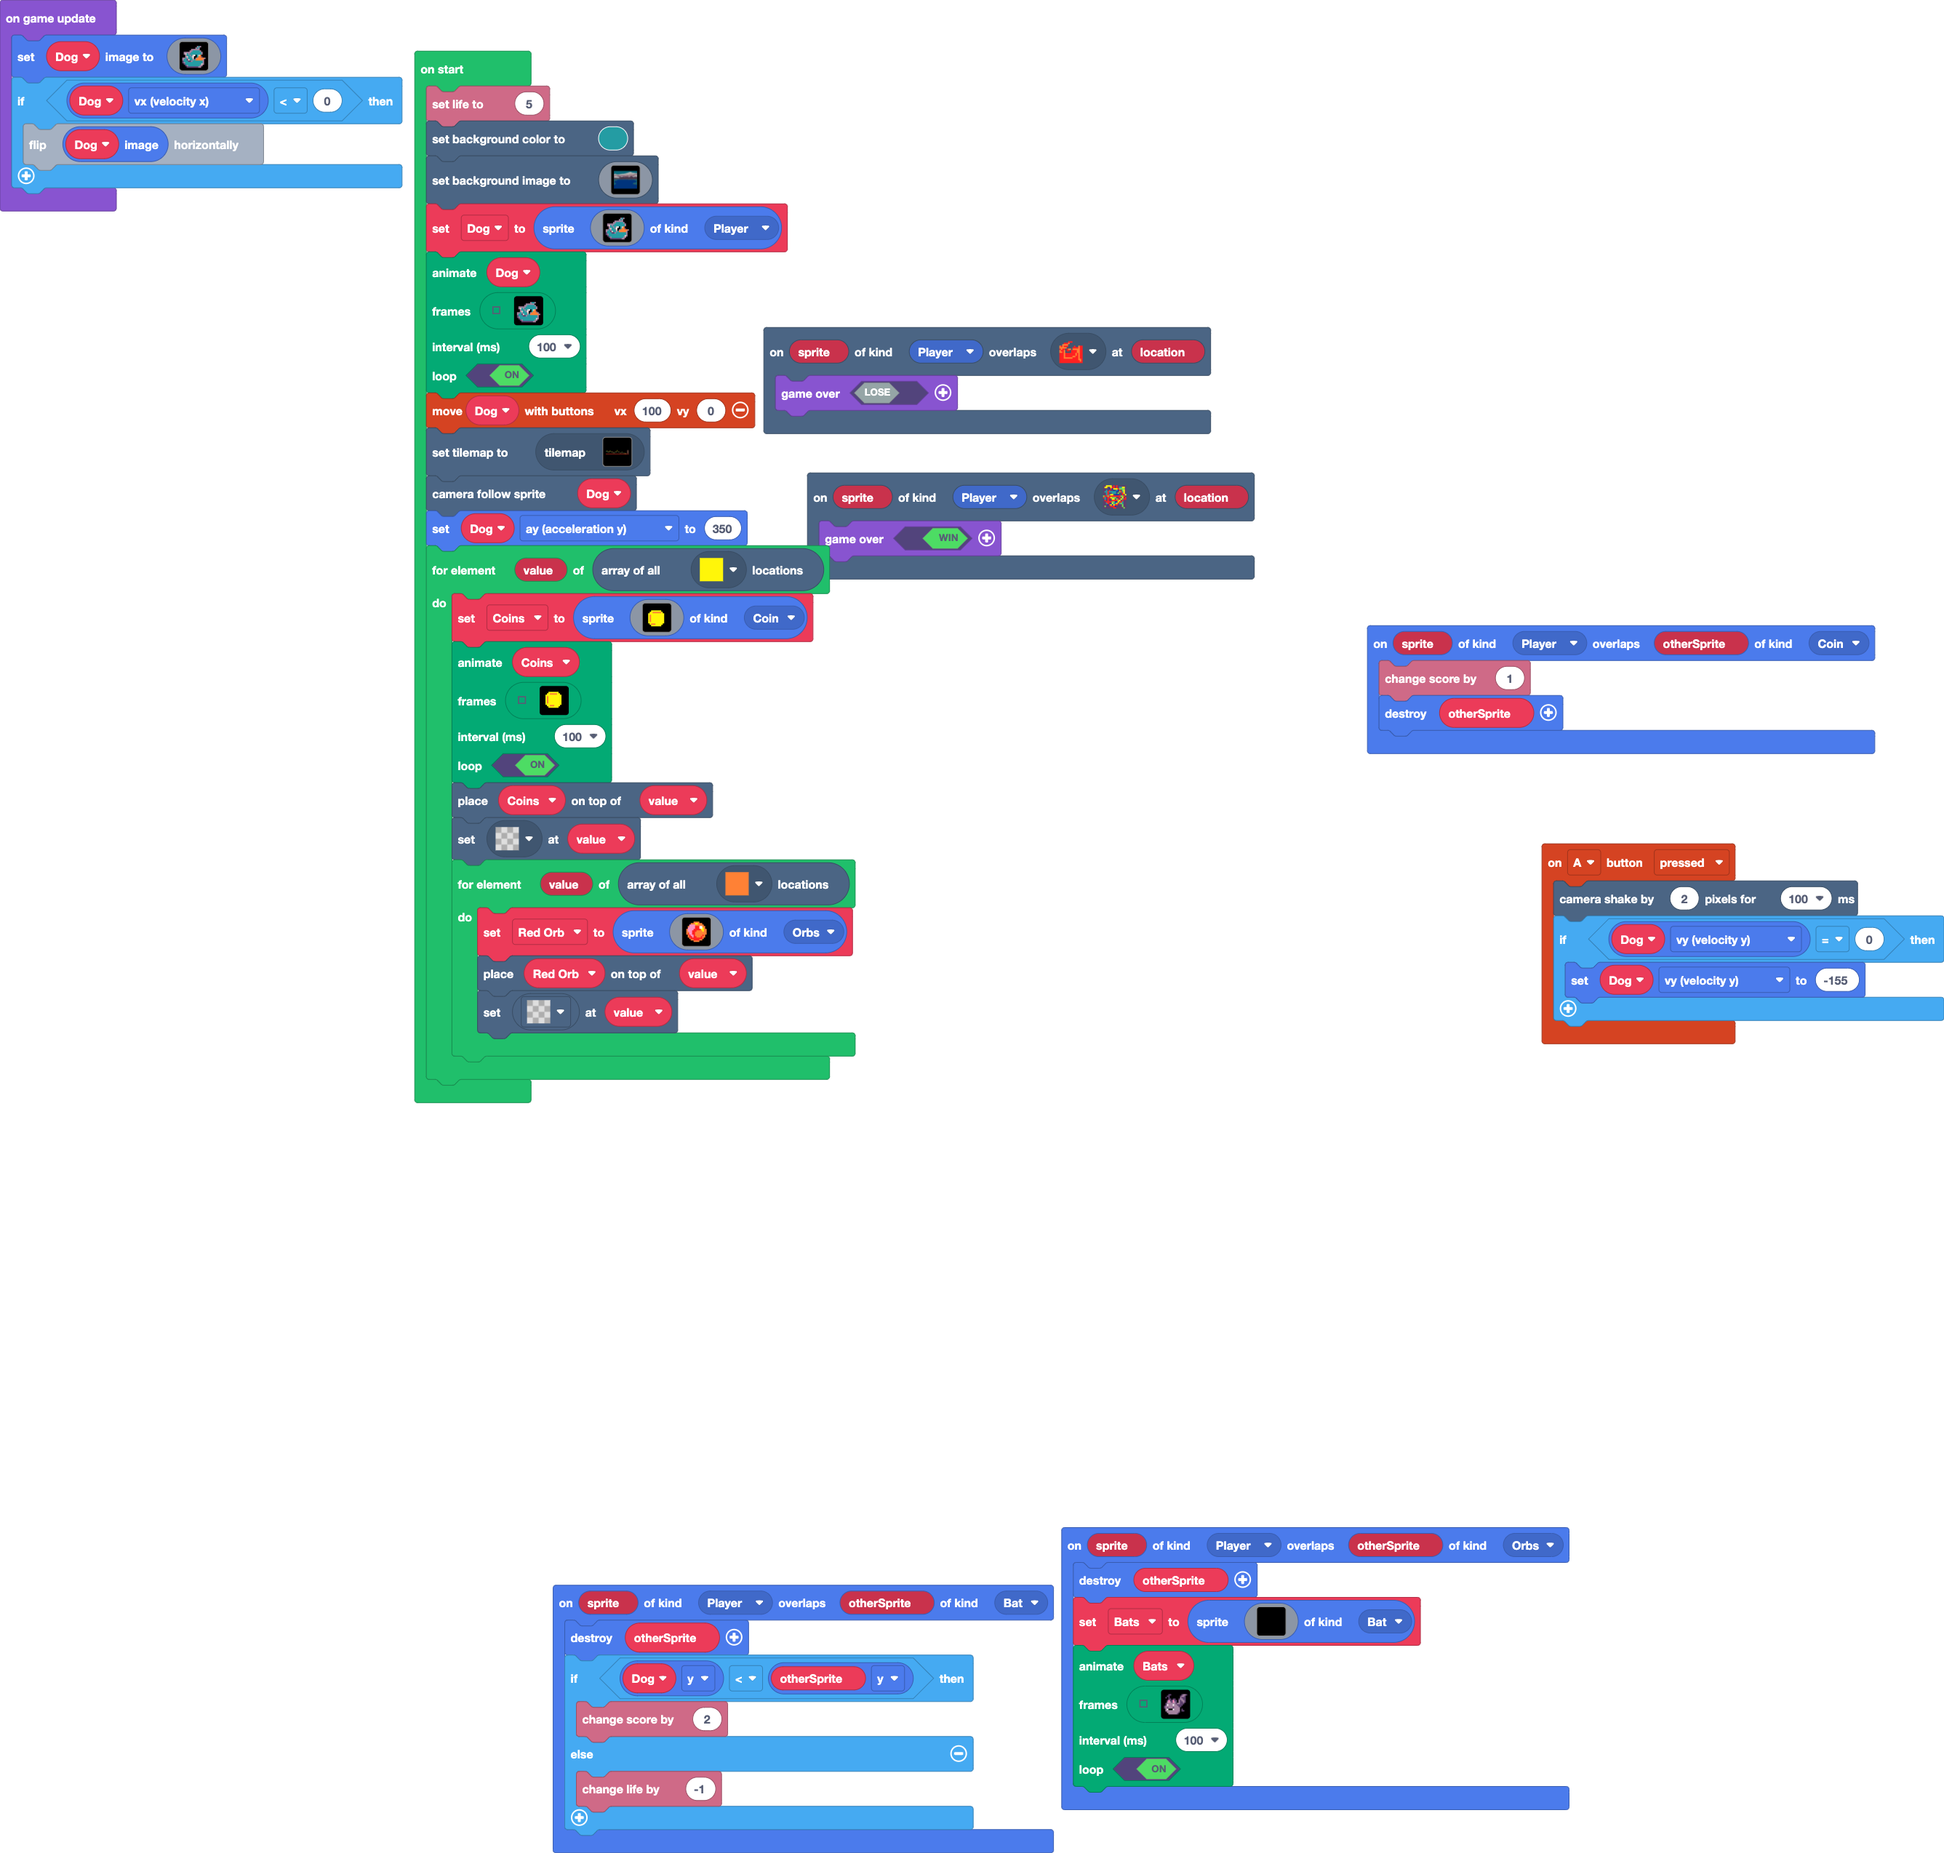
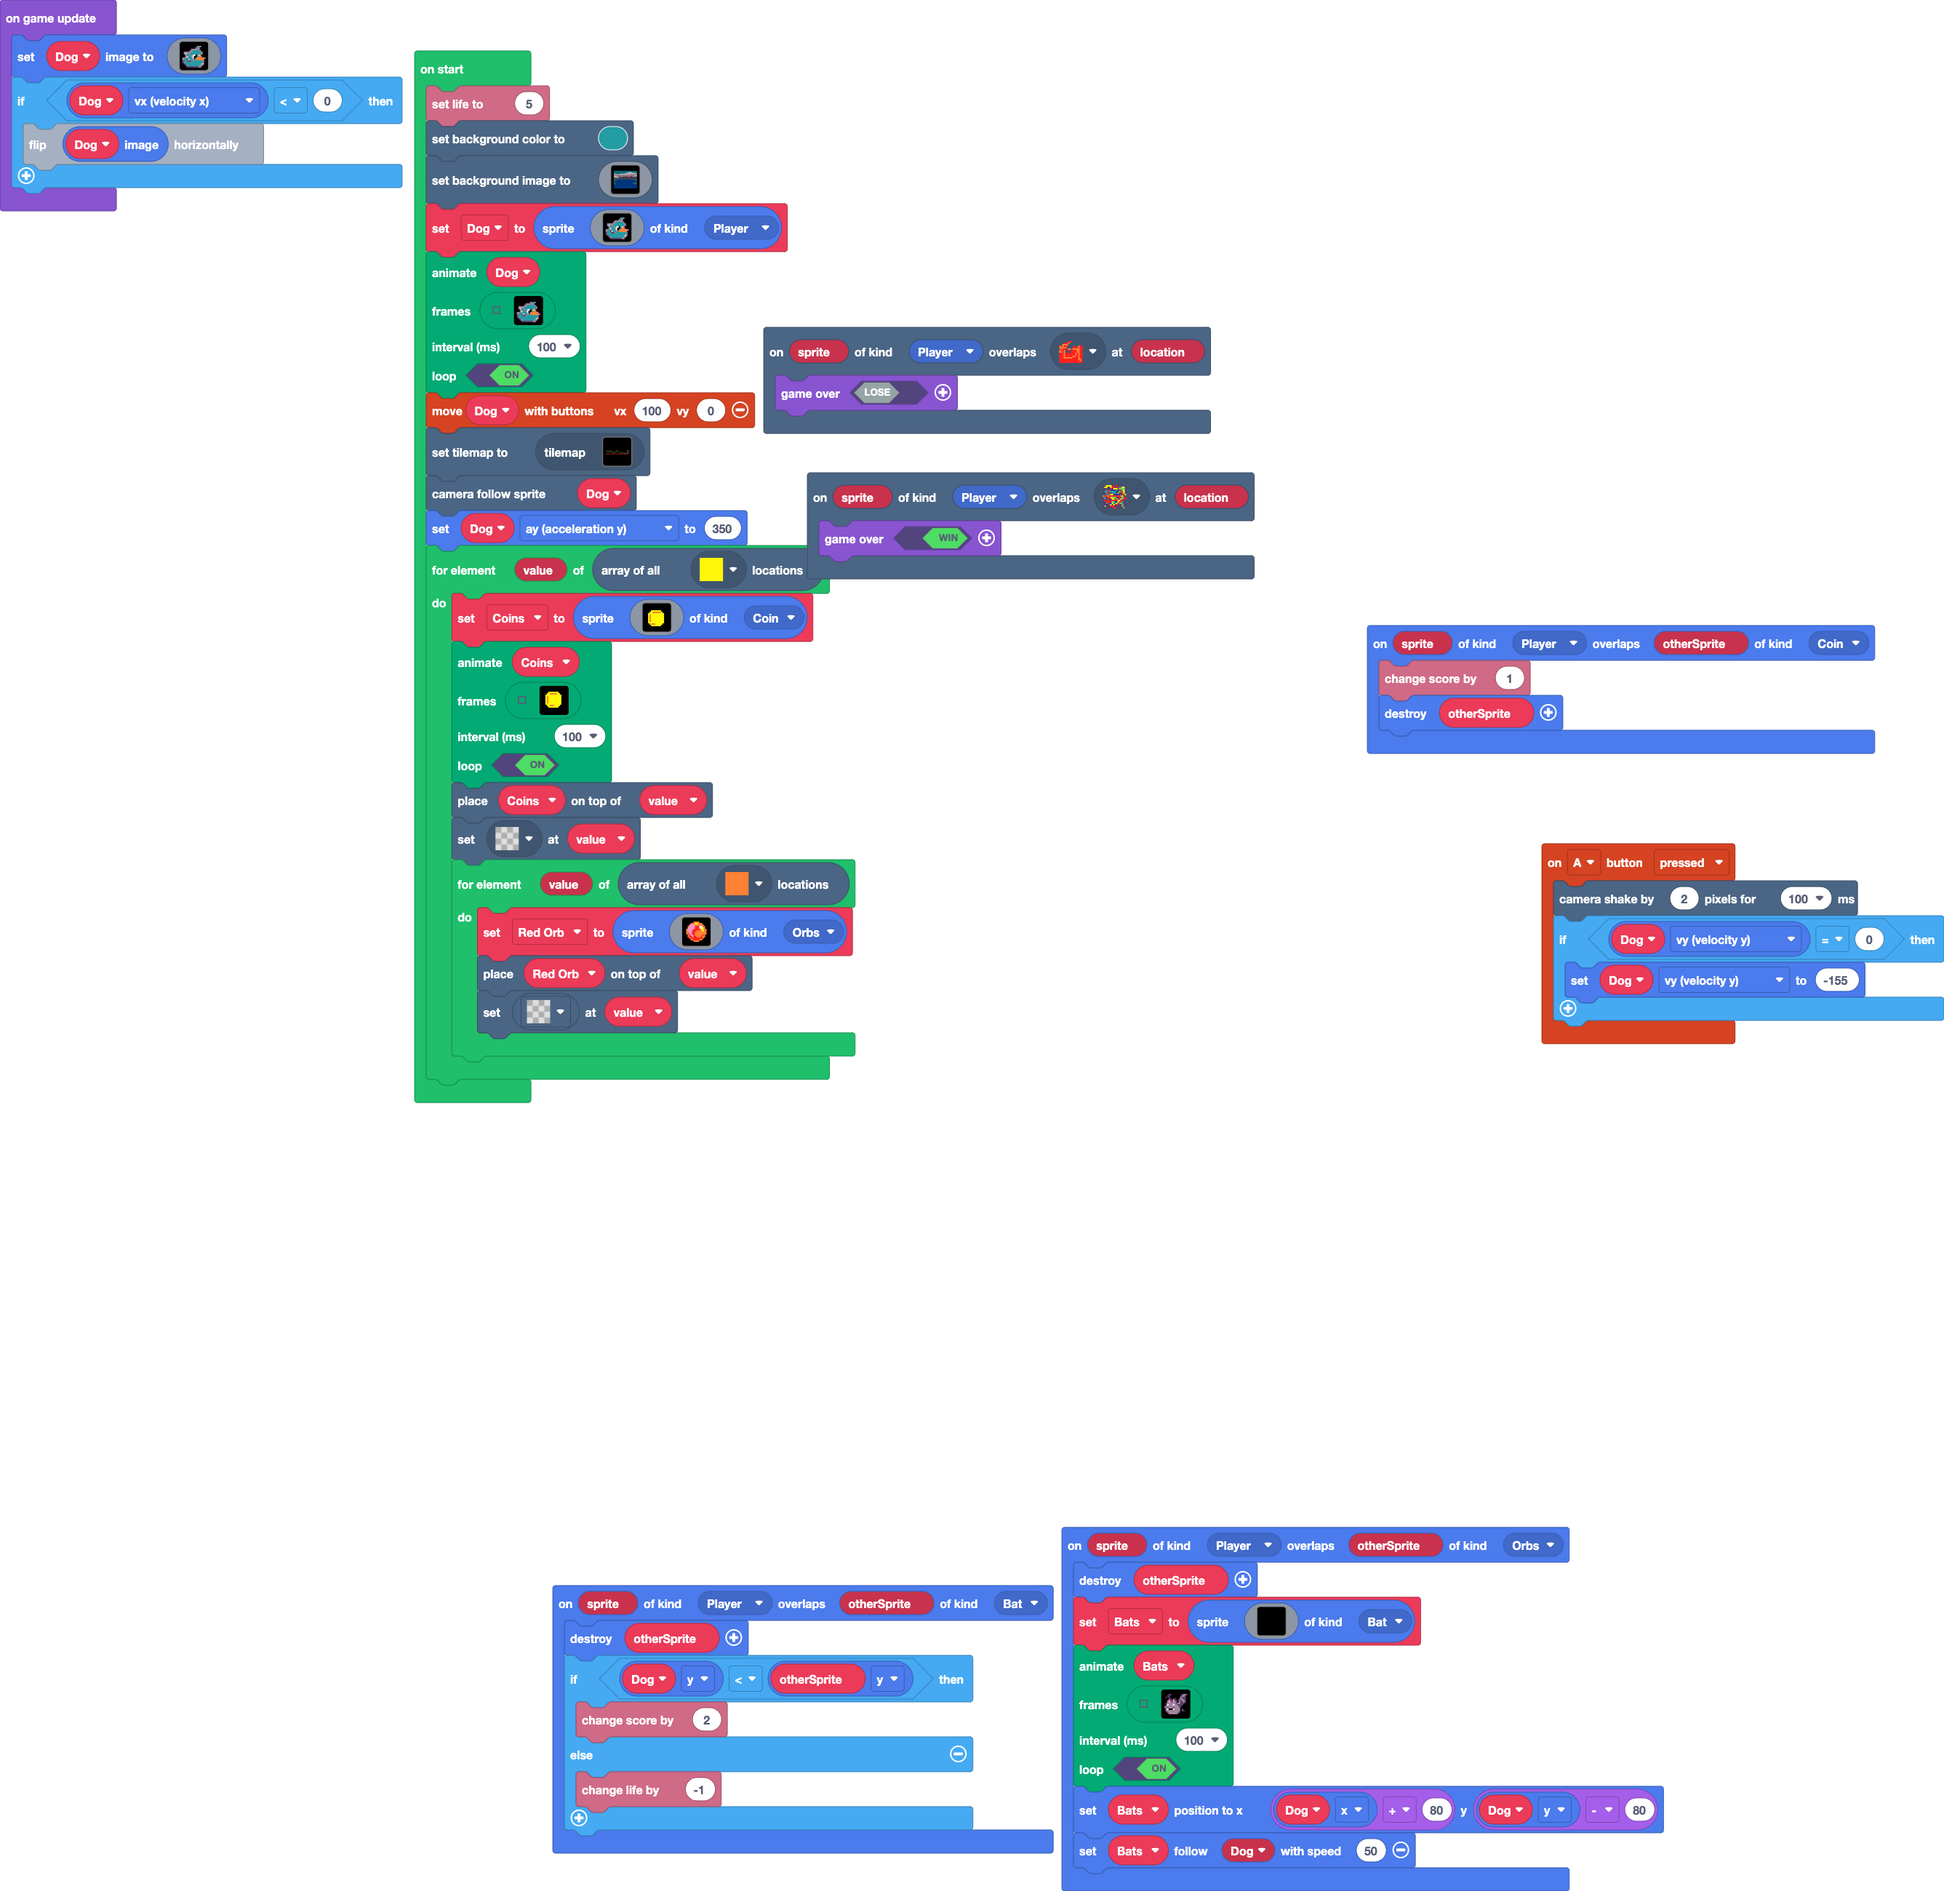
Update main.blocks, main.ts

Changed region(s): [[0.0, 0.0, 0.6521, 0.6201], [0.2795, 0.8061, 0.8694, 1.0], [0.6831, 0.31, 1.0, 0.5891]]

diff --git a/main.ts b/main.ts
@@ -113,6 +113,8 @@ sprites.onOverlap(SpriteKind.Player, SpriteKind.Orbs, function (sprite, otherSpr
     100,
     true
     )
+    Bats.setPosition(Dog.x + 80, Dog.y - 80)
+    Bats.follow(Dog, 50)
 })
 sprites.onOverlap(SpriteKind.Player, SpriteKind.Coin, function (sprite, otherSprite) {
     info.changeScoreBy(1)
